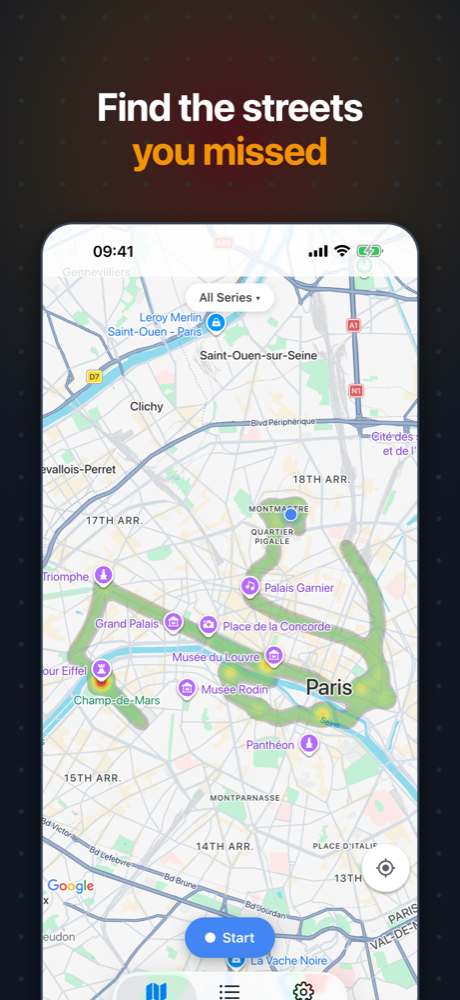
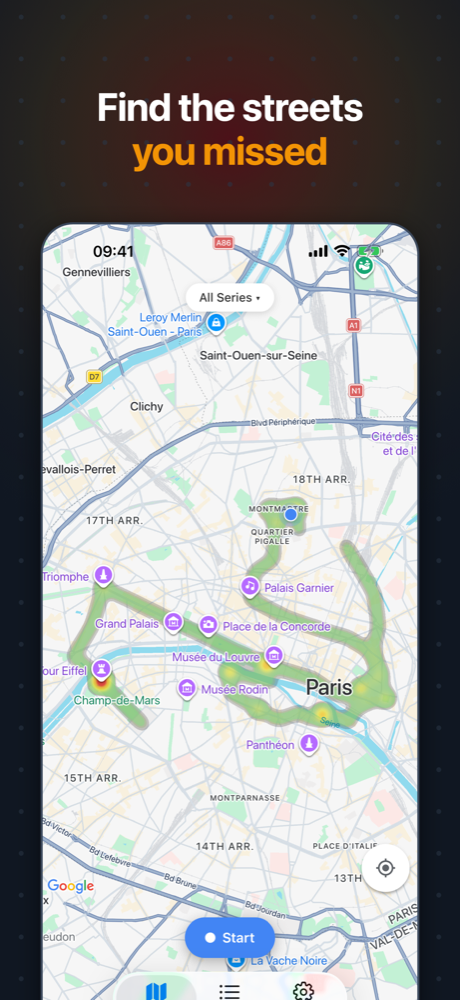
feat: weight points by speed, add an About section and a rating prompt, and release 1.0.1
- Points at walking speed have the full weight. From walking speed to driving speed, the weight goes down to 0.2, so streets that the user walked show stronger than streets that the user drove through.
- Settings has an About section with links to rate the app, to the source code, to the privacy policy and to the support page, and shows the version.
- After the third recording with points, the app asks iOS one time to show the rating prompt.
- New screenshots without the white bar above the map.

Changed region(s): [[0.0913, 0.217, 0.3652, 0.279], [0.6696, 0.217, 0.913, 0.279], [0.4565, 0.217, 0.6391, 0.279]]

diff --git a/app/(tabs)/settings.tsx b/app/(tabs)/settings.tsx
@@ -1,6 +1,7 @@
 import React, { useState, useEffect } from 'react';
-import { View, Text, StyleSheet } from 'react-native';
-import { SafeAreaView } from 'react-native-safe-area-context';
+import { View, Text, StyleSheet, ScrollView, TouchableOpacity, Linking } from 'react-native';
+import { SafeAreaView, useSafeAreaInsets } from 'react-native-safe-area-context';
+import * as Application from 'expo-application';
 import Slider from '@react-native-community/slider';
 import { useSettings } from '../../src/contexts/SettingsContext';
 import {
@@ -8,6 +9,16 @@ import {
   TIME_INTERVAL_OPTIONS,
   nearestOptionIndex,
 } from '../../src/db/queries/settings';
+import { WRITE_REVIEW_URL } from '../../src/services/review';
+
+const TAB_BAR_HEIGHT = 49;
+
+const ABOUT_LINKS = [
+  { label: 'Rate Heatmap', url: WRITE_REVIEW_URL },
+  { label: 'Source Code on GitHub', url: 'https://github.com/zirkelc/heatmap' },
+  { label: 'Privacy Policy', url: 'https://github.com/zirkelc/heatmap/blob/main/docs/privacy-policy.md' },
+  { label: 'Support', url: 'https://github.com/zirkelc/heatmap/blob/main/docs/support.md' },
+];
 
 function formatTime(ms: number): string {
   const seconds = Math.round(ms / 1_000);
@@ -23,6 +34,7 @@ function formatDistance(meters: number): string {
 
 export default function SettingsScreen() {
   const { settings, updateSettings, isLoaded } = useSettings();
+  const insets = useSafeAreaInsets();
   // The sliders select an index in the list of options
   const [timeIndex, setTimeIndex] = useState(() => nearestOptionIndex(TIME_INTERVAL_OPTIONS, settings.timeInterval));
   const [distanceIndex, setDistanceIndex] = useState(() =>
@@ -54,12 +66,12 @@ export default function SettingsScreen() {
 
   return (
     <SafeAreaView style={styles.container} edges={['top']}>
-      <View style={{ flex: 1 }} collapsable={false}>
+      <View style={styles.page} collapsable={false}>
         <View style={styles.header}>
           <Text style={styles.title}>Settings</Text>
         </View>
 
-        <View style={styles.content}>
+        <ScrollView contentContainerStyle={[styles.content, { paddingBottom: insets.bottom + TAB_BAR_HEIGHT + 16 }]}>
           <View style={styles.section}>
             <Text style={styles.sectionTitle}>Background Tracking</Text>
             <Text style={styles.sectionDescription}>
@@ -126,14 +138,40 @@ export default function SettingsScreen() {
               Changes apply at once, also to a recording that runs. Lower values give a more detailed map and a bigger database. During a recording, the app uses GPS, which uses more battery.
             </Text>
           </View>
-        </View>
+
+          <View style={[styles.section, styles.aboutSection]}>
+            <Text style={styles.sectionTitle}>About</Text>
+          </View>
+
+          <View style={styles.linkCard}>
+            {ABOUT_LINKS.map((link, index) => (
+              <TouchableOpacity
+                key={link.url}
+                style={[styles.linkRow, index > 0 && styles.linkRowBorder]}
+                onPress={() => Linking.openURL(link.url)}
+              >
+                <Text style={styles.linkText}>{link.label}</Text>
+                <Text style={styles.linkChevron}>›</Text>
+              </TouchableOpacity>
+            ))}
+          </View>
+
+          <Text style={styles.versionText}>
+            Version {Application.nativeApplicationVersion} ({Application.nativeBuildVersion})
+          </Text>
+        </ScrollView>
       </View>
     </SafeAreaView>
   );
 }
 
 const styles = StyleSheet.create({
+  // White, so that the area behind the status bar has the same color as the header
   container: {
+    flex: 1,
+    backgroundColor: '#FFFFFF',
+  },
+  page: {
     flex: 1,
     backgroundColor: '#F5F5F5',
   },
@@ -222,6 +260,44 @@ const styles = StyleSheet.create({
     borderRadius: 12,
     padding: 16,
     marginTop: 8,
+  },
+  aboutSection: {
+    marginTop: 24,
+    marginBottom: 8,
+  },
+  linkCard: {
+    backgroundColor: '#FFFFFF',
+    borderRadius: 12,
+    shadowColor: '#000',
+    shadowOffset: { width: 0, height: 1 },
+    shadowOpacity: 0.1,
+    shadowRadius: 4,
+    elevation: 2,
+  },
+  linkRow: {
+    flexDirection: 'row',
+    justifyContent: 'space-between',
+    alignItems: 'center',
+    paddingVertical: 14,
+    paddingHorizontal: 16,
+  },
+  linkRowBorder: {
+    borderTopWidth: StyleSheet.hairlineWidth,
+    borderTopColor: '#E0E0E0',
+  },
+  linkText: {
+    fontSize: 17,
+    color: '#4285F4',
+  },
+  linkChevron: {
+    fontSize: 22,
+    color: '#C7C7CC',
+  },
+  versionText: {
+    marginTop: 16,
+    fontSize: 13,
+    color: '#888888',
+    textAlign: 'center',
   },
   noteText: {
     fontSize: 14,

diff --git a/src/db/queries/locations.test.ts b/src/db/queries/locations.test.ts
@@ -4,7 +4,15 @@ import { createTestDatabase } from '../testing';
 import type { DB } from '../types';
 import { locations } from '../schema';
 import { createSeries, getSeriesById, setActiveSeries } from './series';
-import { distanceMeters, filterAccurateLocations, recordLocations, samplePoints, MAX_ACCURACY_METERS } from './locations';
+import {
+  distanceMeters,
+  filterAccurateLocations,
+  recordLocations,
+  samplePoints,
+  weightForSpeed,
+  MAX_ACCURACY_METERS,
+  MIN_WEIGHT,
+} from './locations';
 
 const POINT = { latitude: 52.52, longitude: 13.405, altitude: 34, accuracy: 10, timestamp: 1_700_000_000_000 };
 
@@ -94,6 +102,41 @@ describe('samplePoints', () => {
   });
 });
 
+describe('weightForSpeed', () => {
+  test('should give the full weight at walking speed and when the speed is not known', () => {
+    // Arrange
+    const speeds = [0, 1.4, 2.5, -1, null, undefined];
+
+    // Act
+    const result = speeds.map(weightForSpeed);
+
+    // Assert
+    expect(result).toEqual([1, 1, 1, 1, 1, 1]);
+  });
+
+  test('should give the minimum weight at driving speed', () => {
+    // Arrange
+    const speeds = [10, 14, 30];
+
+    // Act
+    const result = speeds.map(weightForSpeed);
+
+    // Assert
+    expect(result).toEqual([MIN_WEIGHT, MIN_WEIGHT, MIN_WEIGHT]);
+  });
+
+  test('should decrease the weight linearly between walking and driving speed', () => {
+    // Arrange
+    const halfway = (2.5 + 10) / 2;
+
+    // Act
+    const result = weightForSpeed(halfway);
+
+    // Assert
+    expect(result).toBeCloseTo(0.6);
+  });
+});
+
 describe('recordLocations', () => {
   test('should save points to the active series and update its point count', () => {
     // Arrange
@@ -142,6 +185,19 @@ describe('recordLocations', () => {
     // Assert
     expect(result).toEqual({ seriesId: active.seriesId, saved: 1 });
     expect(getSeriesById(db, active.seriesId)?.pointCount).toBe(2);
+  });
+
+  test('should save the weight from the speed', () => {
+    // Arrange
+    const active = createSeries(db, 'Active');
+    setActiveSeries(db, active.seriesId);
+
+    // Act
+    recordLocations(db, [{ ...POINT, speed: 1 }, { ...POINT, speed: 20, timestamp: POINT.timestamp + 1_000 }], SAVE_ALL);
+
+    // Assert
+    const saved = db.select().from(locations).where(eq(locations.seriesId, active.seriesId)).all();
+    expect(saved.map((loc) => loc.weight)).toEqual([1, MIN_WEIGHT]);
   });
 
   test('should return null and save nothing when no series is active', () => {

diff --git a/src/db/queries/locations.ts b/src/db/queries/locations.ts
@@ -12,8 +12,35 @@ export interface RecordedLocation {
   longitude: number;
   altitude?: number | null;
   accuracy?: number | null;
+  /** Speed in meters per second. iOS gives a negative value when the speed is not known. */
+  speed?: number | null;
   /** Unix time in milliseconds */
   timestamp: number;
+}
+
+/** Up to this speed (in meters per second, about 9 km/h), a point has the full weight */
+export const FULL_WEIGHT_MAX_SPEED = 2.5;
+
+/** From this speed (in meters per second, about 36 km/h), a point has the minimum weight */
+export const MIN_WEIGHT_SPEED = 10;
+
+/** Weight of a point at driving speed */
+export const MIN_WEIGHT = 0.2;
+
+/**
+ * Weight of a point on the heatmap, from the speed. When you walk, you see the street. When you
+ * drive through it, you see less. So points at a higher speed count less. Between walking speed
+ * and driving speed, the weight goes down linearly. A point without a known speed has the full weight.
+ */
+export function weightForSpeed(speed: number | null | undefined): number {
+  if (speed == null || speed < 0 || speed <= FULL_WEIGHT_MAX_SPEED) {
+    return 1;
+  }
+  if (speed >= MIN_WEIGHT_SPEED) {
+    return MIN_WEIGHT;
+  }
+  const fraction = (speed - FULL_WEIGHT_MAX_SPEED) / (MIN_WEIGHT_SPEED - FULL_WEIGHT_MAX_SPEED);
+  return 1 - fraction * (1 - MIN_WEIGHT);
 }
 
 /**
@@ -117,7 +144,7 @@ export function recordLocations(
             altitude: loc.altitude ?? null,
             accuracy: loc.accuracy ?? null,
             timestamp: new Date(loc.timestamp).toISOString(),
-            weight: 1,
+            weight: weightForSpeed(loc.speed),
           }))
         )
         .run();

diff --git a/src/services/review.ts b/src/services/review.ts
@@ -1,0 +1,32 @@
+import * as StoreReview from 'expo-store-review';
+import { incrementCounter } from '../db/queries/settings';
+import type { DB } from '../db/types';
+
+const STOPPED_RECORDINGS_KEY = 'stoppedRecordings';
+
+/** The app asks for a rating after this number of recordings with points */
+export const REVIEW_AFTER_RECORDINGS = 3;
+
+/** The App Store page where the user can write a review */
+export const WRITE_REVIEW_URL = 'https://apps.apple.com/app/id6830774275?action=write-review';
+
+/**
+ * Count a stopped recording. After the third recording with points, show the rating prompt
+ * of iOS one time. iOS decides if the prompt really shows, and shows it at most 3 times a year.
+ */
+export async function onRecordingStopped(db: DB, pointCount: number): Promise<void> {
+  if (pointCount === 0) {
+    return;
+  }
+  const count = incrementCounter(db, STOPPED_RECORDINGS_KEY);
+  if (count !== REVIEW_AFTER_RECORDINGS) {
+    return;
+  }
+  try {
+    if (await StoreReview.hasAction()) {
+      await StoreReview.requestReview();
+    }
+  } catch (error) {
+    console.error('[Review] Failed to request a review:', error);
+  }
+}

diff --git a/src/db/queries/settings.test.ts b/src/db/queries/settings.test.ts
@@ -1,5 +1,13 @@
-import { describe, expect, test } from 'vitest';
-import { DISTANCE_INTERVAL_OPTIONS, TIME_INTERVAL_OPTIONS, nearestOptionIndex } from './settings';
+import { beforeEach, describe, expect, test } from 'vitest';
+import { createTestDatabase } from '../testing';
+import type { DB } from '../types';
+import { DISTANCE_INTERVAL_OPTIONS, TIME_INTERVAL_OPTIONS, getSetting, incrementCounter, nearestOptionIndex } from './settings';
+
+let db: DB;
+
+beforeEach(async () => {
+  db = await createTestDatabase();
+});
 
 describe('nearestOptionIndex', () => {
   test('should return the index of an option', () => {
@@ -22,5 +30,19 @@ describe('nearestOptionIndex', () => {
 
     // Assert
     expect(DISTANCE_INTERVAL_OPTIONS[result]).toBe(30);
+  });
+});
+
+describe('incrementCounter', () => {
+  test('should start at 1 and add one on each call', () => {
+    // Arrange
+    const key = 'stoppedRecordings';
+
+    // Act
+    const results = [incrementCounter(db, key), incrementCounter(db, key), incrementCounter(db, key)];
+
+    // Assert
+    expect(results).toEqual([1, 2, 3]);
+    expect(getSetting(db, key)).toBe('3');
   });
 });

diff --git a/src/contexts/TrackingContext.tsx b/src/contexts/TrackingContext.tsx
@@ -9,6 +9,7 @@ import {
   getCurrentLocation,
 } from '../services/location/tracking';
 import { generateSeriesName } from '../services/location/geocoding';
+import { onRecordingStopped } from '../services/review';
 import {
   createSeries,
   deleteSeries,
@@ -147,12 +148,14 @@ export function TrackingProvider({ children }: { children: ReactNode }) {
   const stopCurrentTracking = useCallback(async (): Promise<void> => {
     try {
       await stopTrackingService();
+      const pointCount = activeSeries?.pointCount ?? 0;
       deactivateAllSeries(db);
       setIsTracking(false);
+      await onRecordingStopped(db, pointCount);
     } catch (error) {
       console.error('[TrackingContext] Failed to stop tracking:', error);
     }
-  }, [db]);
+  }, [db, activeSeries]);
 
   const value: TrackingContextValue = {
     isTracking,

diff --git a/src/db/queries/settings.ts b/src/db/queries/settings.ts
@@ -78,3 +78,13 @@ export function saveTrackingSettings(db: DB, trackingSettings: TrackingSettings)
   setSetting(db, 'timeInterval', String(trackingSettings.timeInterval));
   setSetting(db, 'distanceInterval', String(trackingSettings.distanceInterval));
 }
+
+/**
+ * Add one to a counter in the settings table and return the new value. A counter that is not
+ * set yet starts at 0.
+ */
+export function incrementCounter(db: DB, key: string): number {
+  const value = Number(getSetting(db, key) ?? 0) + 1;
+  setSetting(db, key, String(value));
+  return value;
+}

diff --git a/src/services/backgroundTask.ts b/src/services/backgroundTask.ts
@@ -37,6 +37,7 @@ TaskManager.defineTask<{ locations?: Array<Location.LocationObject> }>(
           longitude: location.coords.longitude,
           altitude: location.coords.altitude,
           accuracy: location.coords.accuracy,
+          speed: location.coords.speed,
           timestamp: location.timestamp,
         })),
         getTrackingSettings(db)

diff --git a/README.md b/README.md
@@ -65,6 +65,7 @@ Read the full [privacy policy](docs/privacy-policy.md).
 
 - 🗺 See all your series on one map, or select one series.
 - 🔥 The heatmap goes from green to yellow to red, so the places where you stayed longest stand out.
+- 🚶 Points count less when you move fast. A street that you walked shows stronger than a street that you drove through.
 - 📊 Open a series to see its map, its number of points and its time range.
 - ✏ Rename series. Select series to merge or delete them.
 
